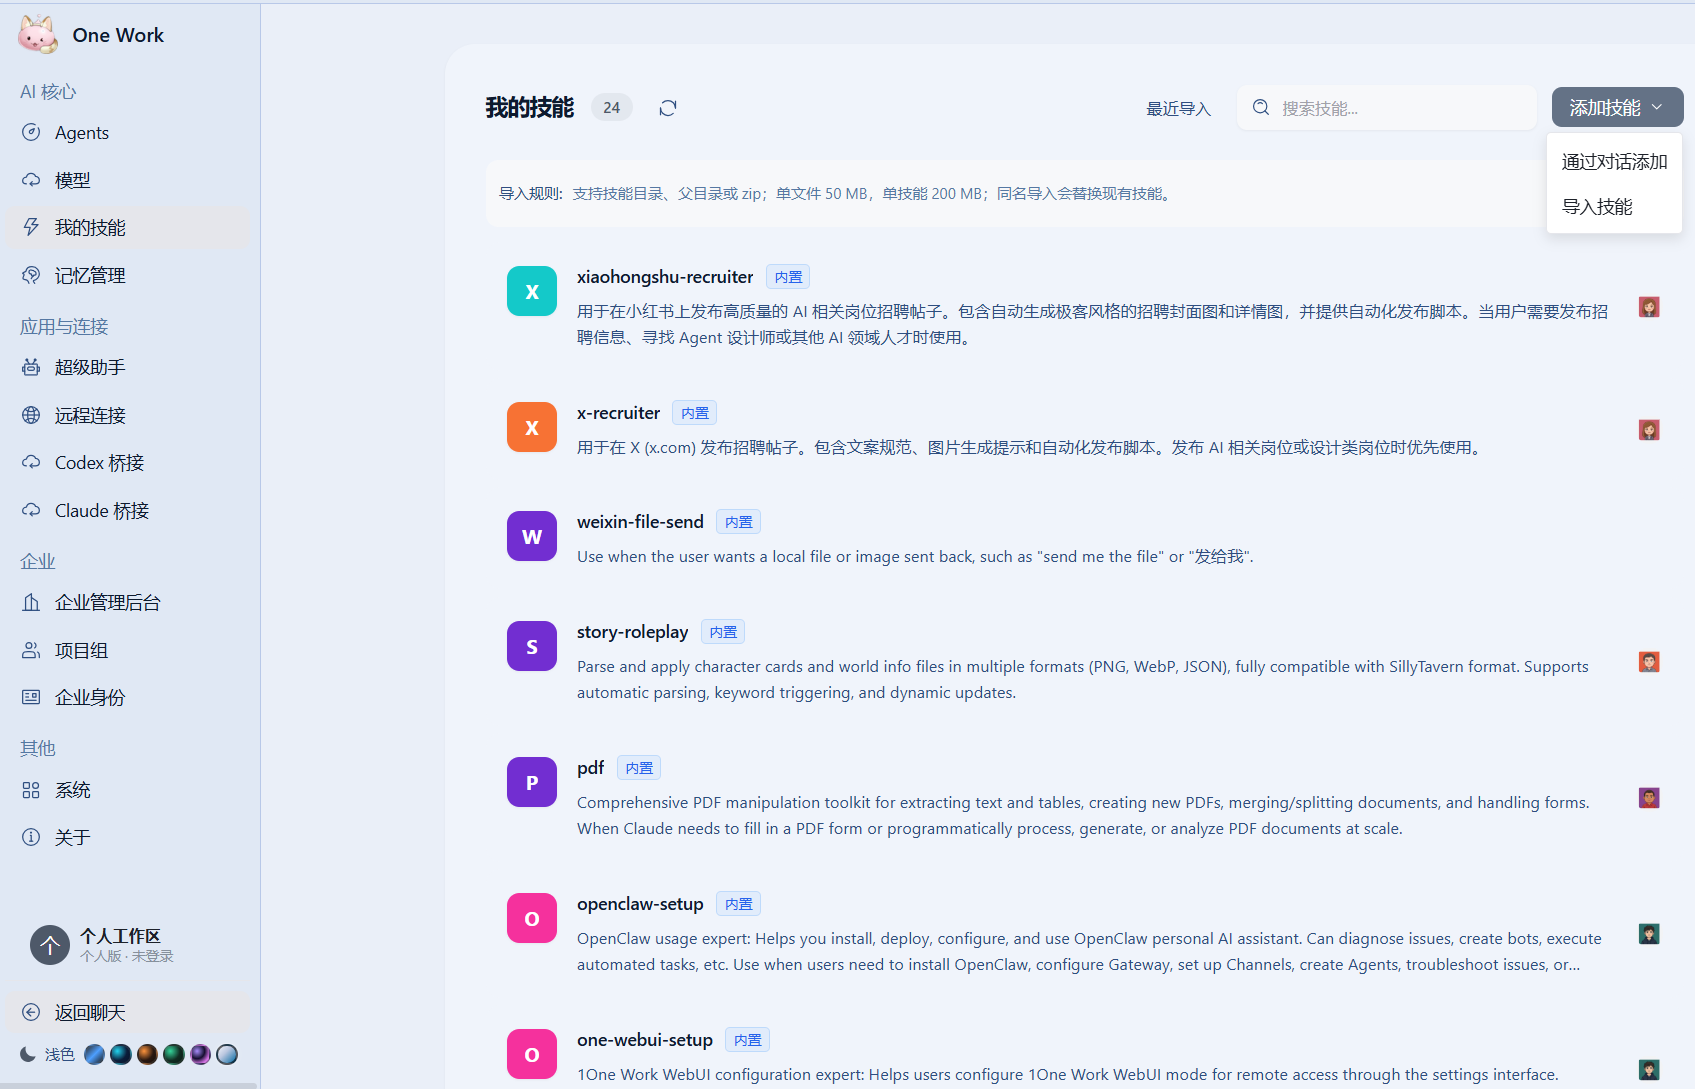
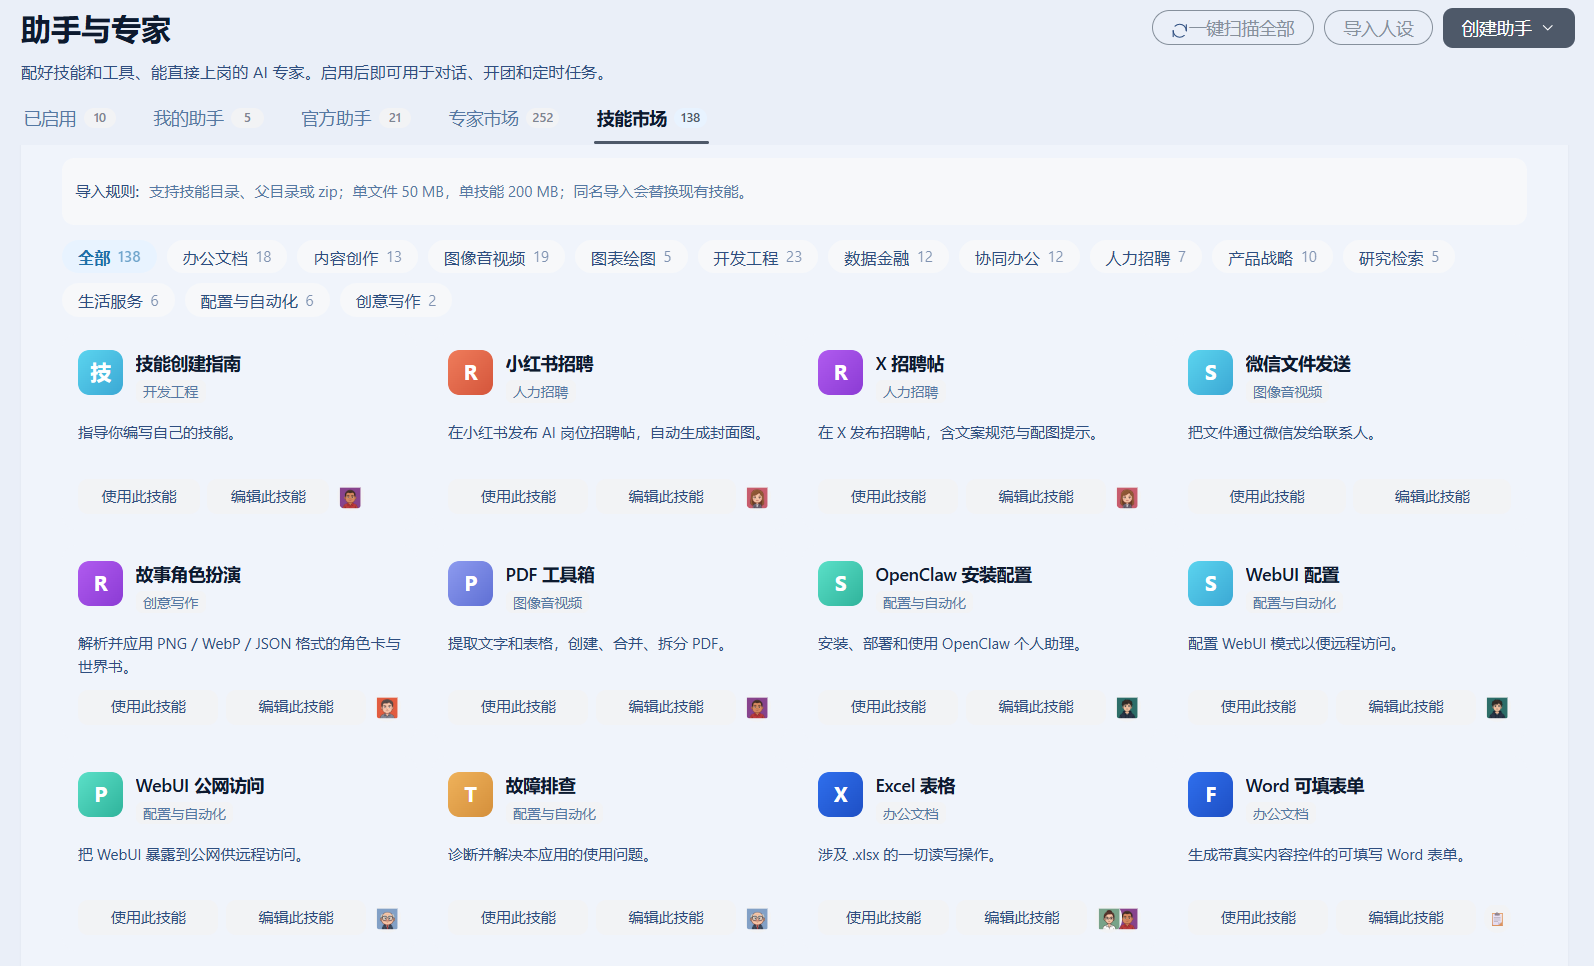
feat(enterprise): report cache tokens, duration and request id per turn
The client-side usage report now carries cacheReadTokens/cacheWriteTokens/
durationMs and a generated requestId, and the dream-engine turn hook feeds
them from the acp_context_usage breakdown and the turn clock. Aligns with
the server's billing_010 columns so the admin consumption log can show
per-call detail for member traffic.

Companion to dream-core 7da05b2. Includes README screenshots refresh.

diff --git a/packages/desktop/src/renderer/pages/conversation/platforms/dreamEngine/useDreamEngineMessage.ts b/packages/desktop/src/renderer/pages/conversation/platforms/dreamEngine/useDreamEngineMessage.ts
@@ -15,7 +15,11 @@ import { logStreamTerminalObserved } from '@/renderer/pages/conversation/runtime
 import { getConversationOrNull } from '@/renderer/pages/conversation/utils/conversationCache';
 import { isConversationProcessing } from '@/renderer/pages/conversation/utils/conversationRuntime';
 import { ensureConversationRuntime } from '@/renderer/pages/conversation/utils/ensureConversationRuntime';
-import { beginConversationTurn, endConversationTurn, getConversationTurnStart } from '@/renderer/pages/conversation/utils/conversationTurnClock';
+import {
+  beginConversationTurn,
+  endConversationTurn,
+  getConversationTurnStart,
+} from '@/renderer/pages/conversation/utils/conversationTurnClock';
 import { useCallback, useEffect, useMemo, useRef, useState } from 'react';
 import { processLocalCronResponse } from './localCronCommands';
 // Shared with the ACP hook on purpose — see the `acp_context_usage` arm.

diff --git a/tests/unit/enterprise/clientUsageReport.test.ts b/tests/unit/enterprise/clientUsageReport.test.ts
@@ -52,14 +52,16 @@ describe('client usage reporting', () => {
   it('reports the counts with the model and the local provider id', async () => {
     await reportClientTurnUsage({ conversationId: 'conv-1', inputTokens: 900, outputTokens: 40 });
 
-    expect(reportUsageMock).toHaveBeenCalledWith(expect.objectContaining({
-      conversationId: 'conv-1',
-      model: 'gpt-4.1',
-      channelId: 'prov_local_openai',
-      inputTokens: 900,
-      outputTokens: 40,
-      requestId: expect.any(String),
-    }));
+    expect(reportUsageMock).toHaveBeenCalledWith(
+      expect.objectContaining({
+        conversationId: 'conv-1',
+        model: 'gpt-4.1',
+        channelId: 'prov_local_openai',
+        inputTokens: 900,
+        outputTokens: 40,
+        requestId: expect.any(String),
+      })
+    );
   });
 
   /**

diff --git a/README.md b/README.md
@@ -237,6 +237,17 @@ AI 一键拆单，任务直接交给 Agent，进度团队可见。
 </table>
 </details>
 
+<details>
+<summary><strong>🧠 市场专家 · Skills 技能管理</strong></summary>
+<br>
+<table>
+<tr>
+<td width="50%"><img src="./resources/市场专家.png" width="100%"><br><sub>行业专家市场 · 开箱即用</sub></td>
+<td width="50%"><img src="./resources/SKILL技能管理.png" width="100%"><br><sub>技能可组合、可下发团队</sub></td>
+</tr>
+</table>
+</details>
+
 ---
 
 ## 和 Cursor / Copilot 比什么
